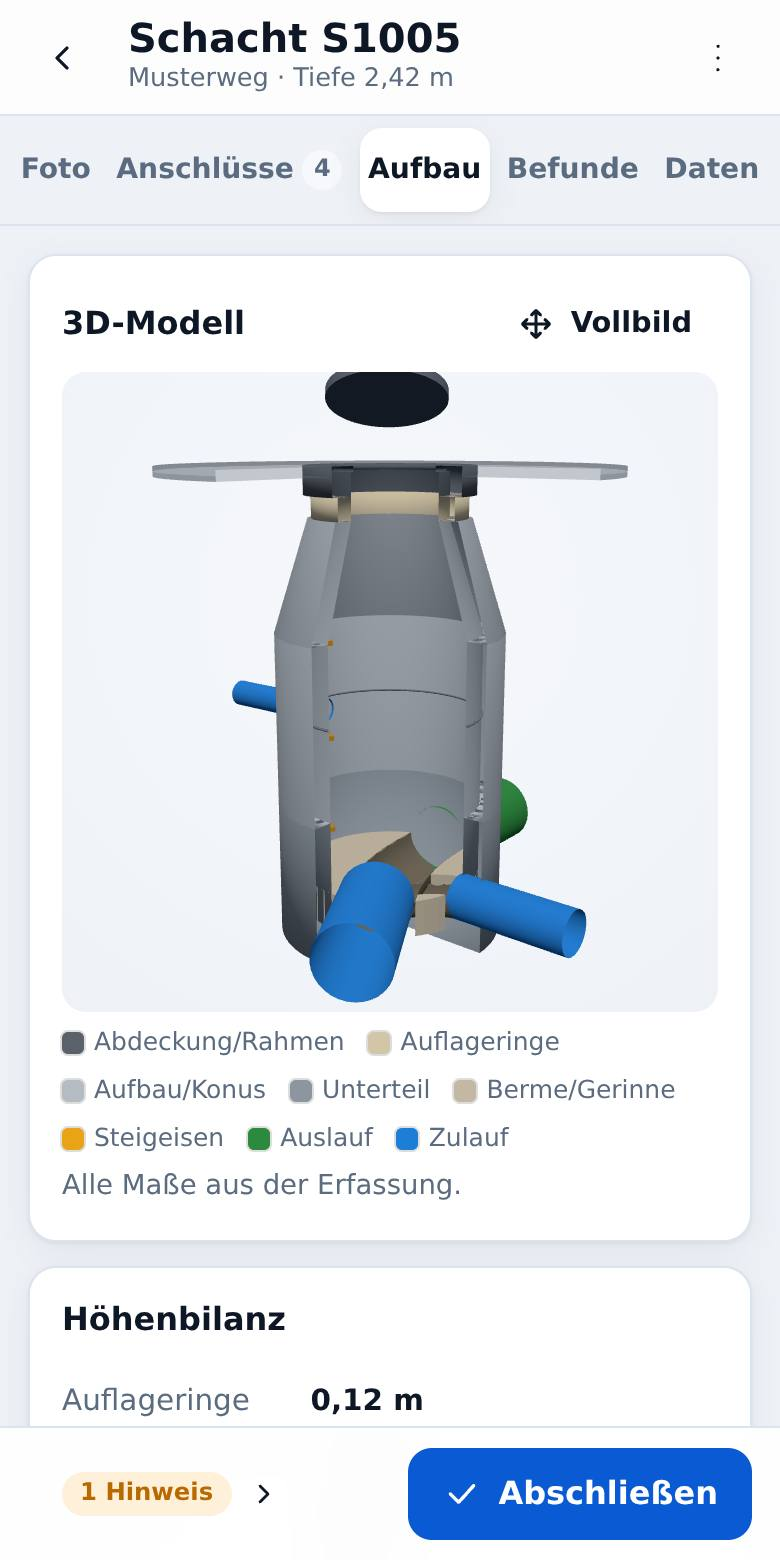
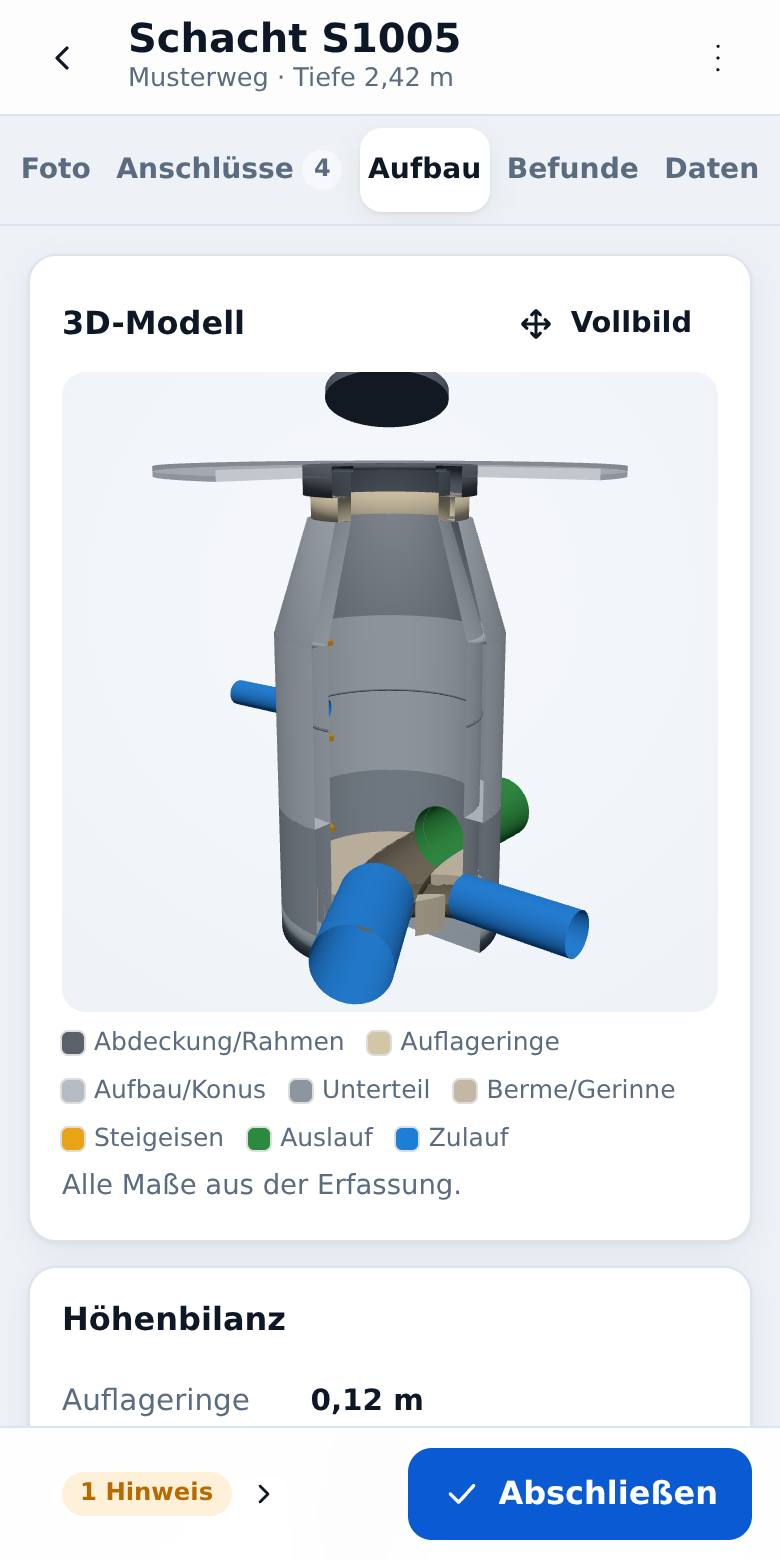
3D-Modell: Öffnungen in der Schachtwand an den Rohren
- Runde Wände (Unterteil, untere Schachtzone, Schachtringe) bekommen an jedem
  Anschluss eine Öffnung in Rohrgröße, innen und außen; das Rohr schließt bündig
  mit der Innenseite ab, verschlossene Anschlüsse zeigen den Deckel in der Öffnung
- Wandfläche als Raster, nur Zellen am Rohr werden exakt um die Öffnung zerlegt;
  Öffnungen an der Schnittkante (3/6 Uhr) oder an einer Bauteilfuge werden
  sauber angeschnitten
- Test für Mantelfläche, ausgesparte Fläche und Normalen; Bilder der Info-Seite
  neu erzeugt; Version 0.6.5

Claude-Session: https://claude.ai/code/session_01FwQYApyVF8ufwKu8TMpCht

Changed region(s): [[0.3385, 0.5231, 0.4615, 0.6462], [0.5231, 0.4923, 0.6154, 0.5846], [0.7077, 0.5846, 0.7692, 0.6154]]

diff --git a/app/js/components/modell3d.js b/app/js/components/modell3d.js
@@ -218,6 +218,85 @@ export function bermeUmrisse({ rInnen, kanaele, schritte = 120 }) {
   }
 }
 
+// ---------------------------------------------------------------- Wand mit Rohröffnungen
+
+/** Polygon an der Halbebene nx·x + ny·y ≤ c (bzw. ≥ c) abschneiden (Sutherland-Hodgman). */
+function halbebene(poly, nx, ny, c, aussen) {
+  const f = ([x, y]) => (aussen ? -1 : 1) * (nx * x + ny * y - c);
+  const out = [];
+  for (let i = 0; i < poly.length; i++) {
+    const p = poly[i], q = poly[(i + 1) % poly.length];
+    const fp = f(p), fq = f(q);
+    if (fp <= 0) out.push(p);
+    if ((fp < 0 && fq > 0) || (fp > 0 && fq < 0)) {
+      const t = fp / (fp - fq);
+      out.push([p[0] + (q[0] - p[0]) * t, p[1] + (q[1] - p[1]) * t]);
+    }
+  }
+  return out;
+}
+const polyFlaeche = (p) => Math.abs(p.reduce((a, [x, y], i) => { const [x2, y2] = p[(i + 1) % p.length]; return a + x * y2 - x2 * y; }, 0) / 2);
+
+/** Konvexes Polygon minus konvexes Loch = disjunkte konvexe Teile (je Lochkante: außerhalb dieser, innerhalb der vorigen). */
+function ohneLoch(poly, loch) {
+  const teile = [];
+  let rest = poly;
+  for (let k = 0; k < loch.length && rest.length >= 3; k++) {
+    const [ax, ay] = loch[k], [bx, by] = loch[(k + 1) % loch.length];
+    const nx = by - ay, ny = -(bx - ax); // nach außen (Loch gegen den Uhrzeigersinn)
+    const c = nx * ax + ny * ay;
+    const aussen = halbebene(rest, nx, ny, c, true);
+    if (aussen.length >= 3 && polyFlaeche(aussen) > 1e-10) teile.push(aussen);
+    rest = halbebene(rest, nx, ny, c, false);
+  }
+  return teile;
+}
+
+/**
+ * Zylindrische Wandfläche (Radius R, Winkel θ0…θ1 in Uhr-Richtung: x = R·sin θ, z = −R·cos θ, Höhe
+ * y0…y1) mit Öffnungen für radial einmündende Rohre ({theta, y (Mitte), r}). Die Fläche wird als
+ * Raster gebaut (Spalten ≤ 3°, sonst eben gerade); nur Zellen am Rohr werden exakt um die Öffnung
+ * herum zerlegt. Liefert {pos, nor} (Dreiecke, x/y/z flach) – ohne three.js, testbar.
+ */
+export function wandMitOeffnungen({ R, theta0, theta1, y0, y1, oeffnungen = [] }) {
+  const N = 32;
+  const loecher = oeffnungen.filter((o) => o.r > 0.005).map((o) => {
+    const r = Math.min(o.r, R * 0.95);
+    const poly = Array.from({ length: N }, (_, j) => {
+      const ph = (2 * Math.PI * j) / N;
+      return [R * (o.theta + Math.asin(Math.min(0.999, (r * Math.cos(ph)) / R))), o.y + r * Math.sin(ph)];
+    });
+    const xs = poly.map((p) => p[0]), ys = poly.map((p) => p[1]);
+    return { poly, s0: Math.min(...xs), s1: Math.max(...xs), y0: Math.min(...ys), y1: Math.max(...ys) };
+  });
+  const pos = [], nor = [];
+  const punkt = ([sv, y]) => {
+    const t = sv / R;
+    pos.push(R * Math.sin(t), y, -R * Math.cos(t));
+    nor.push(-Math.sin(t), 0, Math.cos(t)); // Vorderseite der Dreiecke zeigt zur Schachtmitte
+  };
+  const dreieck = (a, b, c) => { punkt(a); punkt(b); punkt(c); };
+  const spalten = Math.max(1, Math.ceil((theta1 - theta0) / (Math.PI / 60)));
+  const zeilenH = 0.04;
+  const zeilen = Math.max(1, Math.ceil((y1 - y0) / zeilenH));
+  for (let i = 0; i < spalten; i++) {
+    const sa = R * (theta0 + ((theta1 - theta0) * i) / spalten);
+    const sb = R * (theta0 + ((theta1 - theta0) * (i + 1)) / spalten);
+    const betroffen = loecher.filter((l) => l.s1 > sa && l.s0 < sb && l.y1 > y0 && l.y0 < y1);
+    if (!betroffen.length) { dreieck([sa, y0], [sb, y0], [sb, y1]); dreieck([sa, y0], [sb, y1], [sa, y1]); continue; }
+    for (let j = 0; j < zeilen; j++) {
+      const ya = y0 + ((y1 - y0) * j) / zeilen, yb = y0 + ((y1 - y0) * (j + 1)) / zeilen;
+      let teile = [[[sa, ya], [sb, ya], [sb, yb], [sa, yb]]];
+      for (const l of betroffen) {
+        if (l.y1 <= ya || l.y0 >= yb) continue;
+        teile = teile.flatMap((t) => ohneLoch(t, l.poly));
+      }
+      for (const t of teile) for (let k = 1; k < t.length - 1; k++) dreieck(t[0], t[k], t[k + 1]);
+    }
+  }
+  return { pos, nor };
+}
+
 /**
  * Nebengerinne für alle weiteren Zuläufe, deren Sohle nicht über der Berme liegt (sonst fällt das Wasser
  * auf die Berme): Breite nach DN (höchstens wie das Hauptgerinne), Sohle fällt vom Zulauf zur Mündung.
@@ -283,18 +362,43 @@ export function baueSchacht(THREE, { bauteile, inspection }) {
   };
   const ring = (ri, y0, y1, color, t = wand) => lathe([[ri, y0], [ri + t, y0], [ri + t, y1], [ri, y1], [ri, y0]], color);
 
+  // Öffnungen für die Rohre: Wand von 6 über 9 und 12 bis 3 Uhr (offenes Viertel 3–6 Uhr)
+  const THETA0 = Math.PI, THETA1 = Math.PI * 2.5;
+  const rohrRadius = (c) => Math.min(0.8, Math.max(0.1, (Number(c.dn) || 150) / 1000)) / 2;
+  const oeffnungen = (inspection?.connections || []).filter((c) => c.clock).map((c) => {
+    let theta = ((Number(c.clock) % 12) * Math.PI) / 6;
+    if (theta < THETA0 - 1e-9) theta += Math.PI * 2;
+    const r = rohrRadius(c);
+    return { theta, y: anschlussHoehe(c, T) + r, r };
+  });
+  // runde Wand (innen und außen mit Öffnungen) samt Ober- und Unterkante
+  const wandRund = (R, y0, y1, color) => {
+    for (const rad of [R, R + wand]) {
+      const { pos, nor } = wandMitOeffnungen({ R: rad, theta0: THETA0, theta1: THETA1, y0, y1, oeffnungen });
+      const geo = new THREE.BufferGeometry();
+      geo.setAttribute('position', new THREE.Float32BufferAttribute(pos, 3));
+      geo.setAttribute('normal', new THREE.Float32BufferAttribute(nor, 3));
+      g.add(new THREE.Mesh(geo, mat(color)));
+    }
+    lathe([[R, y1], [R + wand, y1]], color);
+    lathe([[R, y0], [R + wand, y0]], color);
+  };
+
   // Unterteil mit Bodenplatte
   const rU = M.unterteil.l / 2;
   if (M.unterteilDa) {
     if (M.unterteil.eckig) kasten(M.unterteil.l, M.unterteil.w, -0.15, M.hUnterteil, FARBEN.unterteil);
-    else lathe([[0, -0.15], [rU + wand, -0.15], [rU + wand, M.hUnterteil], [rU, M.hUnterteil], [rU, 0], [0, 0]], FARBEN.unterteil);
+    else {
+      lathe([[0, -0.15], [rU + wand, -0.15], [rU + wand, 0], [rU, 0], [0, 0]], FARBEN.unterteil);
+      wandRund(rU, 0, M.hUnterteil, FARBEN.unterteil);
+    }
   }
   // untere Schachtzone (Sonderschacht)
   let rOben = M.dn / 2;
   if (M.unten) {
     const rZ = M.unten.l / 2;
     if (M.unten.eckig) kasten(M.unten.l, M.unten.l, M.z.unten, M.z.aufbau, FARBEN.unten);
-    else ring(rZ, M.z.unten, M.z.aufbau, FARBEN.unten);
+    else wandRund(rZ, M.z.unten, M.z.aufbau, FARBEN.unten);
     if (M.unten.uebergangsplatte && rZ > rOben) lathe([[rOben, M.z.aufbau - 0.15], [rZ + wand, M.z.aufbau - 0.15], [rZ + wand, M.z.aufbau], [rOben, M.z.aufbau], [rOben, M.z.aufbau - 0.15]], FARBEN.konus);
     if (M.unten.podest) {
       const y = M.z.unten + (M.z.aufbau - M.z.unten) * 0.5;
@@ -306,7 +410,7 @@ export function baueSchacht(THREE, { bauteile, inspection }) {
   // Schachtaufbau: Ringe, Konus bzw. Abdeckplatte
   const rD = M.dDeckel / 2;
   if (M.aufbau.eckig) kasten(M.aufbau.l, M.aufbau.w, M.z.aufbau, M.z.konus, FARBEN.aufbau);
-  else ring(rOben, M.z.aufbau, M.z.konus, FARBEN.aufbau);
+  else wandRund(rOben, M.z.aufbau, M.z.konus, FARBEN.aufbau);
   // Ringfugen andeuten
   for (let y = M.z.aufbau + 0.5; y < M.z.konus - 0.1; y += 0.5) {
     if (M.aufbau.eckig) break;
@@ -402,7 +506,7 @@ export function baueSchacht(THREE, { bauteile, inspection }) {
     const len = 0.7;
     const color = c.dir === 'out' ? FARBEN.aus : c.dir === 'closed' ? FARBEN.zu_ : FARBEN.zu;
     const pipe = new THREE.Mesh(new THREE.CylinderGeometry(r, r, len, 32, 1, true), mat(color));
-    const start = wallAt(y) - 0.02;
+    const start = wallAt(y) - 0.004; // bündig mit der Innenseite (Öffnung in der Wand)
     pipe.position.copy(d.clone().multiplyScalar(start + len / 2)).setY(y);
     pipe.quaternion.setFromUnitVectors(new THREE.Vector3(0, 1, 0), d);
     g.add(pipe);

diff --git a/app/js/brand.js b/app/js/brand.js
@@ -1,7 +1,7 @@
 // Herstellerangaben der App (erscheinen in Einstellungen, Berichten und Exportdateien).
 
 export const APP_NAME = 'Schachtblick';
-export const APP_VERSION = '0.6.4';
+export const APP_VERSION = '0.6.5';
 export const VENDOR = 'MMSE Software Engineering';
 export const VENDOR_URL = 'https://www.mmse-software.com';
 export const VENDOR_WEB = 'www.mmse-software.com';

diff --git a/app/sw.js b/app/sw.js
@@ -1,5 +1,5 @@
 // Service Worker: macht die App offline-fähig (App-Dateien im Cache, API nie cachen).
-const VERSION = 'schachtblick-v17';
+const VERSION = 'schachtblick-v18';
 const ASSETS = [
   './', './index.html', './manifest.webmanifest', './css/app.css',
   './icons/icon.svg', './icons/icon-192.png', './icons/icon-512.png', './icons/icon-180.png', './icons/mmse-logo.png',

diff --git a/CLAUDE.md b/CLAUDE.md
@@ -50,7 +50,7 @@ node tools/make-bilder.mjs http://127.0.0.1:8080/ /tmp/s.jpg   # screenshots for
 - `sw.js` caches an explicit `ASSETS` list: add new JS/CSS files there.
 - `window.SB_DEMO` (set only by the published artifact preview page) switches export to "show XML" instead of download and hides print.
 - Reports: `lib/pdf.js` is a minimal PDF writer (A4, top-left coordinates, Helvetica/Helvetica-Bold with WinAnsi encoding – characters outside CP1252 are replaced, widths in `lib/pdf-fonts.js`; JPEG only via DCTDecode). `lib/xlsx.js` writes inline-string XLSX via `lib/zip.js`. `report/protokoll.js` (`protokollPdf`) and `report/aufmass.js` (`aufmassDaten/aufmassPdf/aufmassXlsx`) are DOM-free and unit-tested; `views/berichte.js` does the browser part (photo scaling, overview image with clock overlay, logo from `settings.logo` as JPEG data URL, download/share via `offerFile`).
-- `components/modell3d.js` lazy-loads the vendored three.js (`app/vendor/three/`, OrbitControls import rewritten to a relative path) and builds the cut-away manhole from `modellMasse()`; the channel (Gerinne) runs from the main inflow (lowest inflow, ties ±5 cm → largest DN; `gerinneAnschluesse()`) to the outflow along a cubic Bézier (`gerinneVerlauf()`, pure and unit-tested in `tests/gerinne.test.mjs`) – straight when they are opposite. Further inflows whose invert is not above the berm get side channels (`nebenGerinne()`: join the main channel tangentially in flow direction, end where the main channel wall is at their invert height so they never run uphill). The berm outline is the disk minus all channel bands, traced by marching squares on a distance field (`bermeUmrisse()`, then snapped to the wall circle and simplified with Douglas-Peucker) and extruded; `schachtModellBild()` renders a JPEG for the PDF. The inspection tab „Aufbau“ (`views/aufbau.js`) returns a cleanup that disposes the WebGL view.
+- `components/modell3d.js` lazy-loads the vendored three.js (`app/vendor/three/`, OrbitControls import rewritten to a relative path) and builds the cut-away manhole from `modellMasse()`; the channel (Gerinne) runs from the main inflow (lowest inflow, ties ±5 cm → largest DN; `gerinneAnschluesse()`) to the outflow along a cubic Bézier (`gerinneVerlauf()`, pure and unit-tested in `tests/gerinne.test.mjs`) – straight when they are opposite. Further inflows whose invert is not above the berm get side channels (`nebenGerinne()`: join the main channel tangentially in flow direction, end where the main channel wall is at their invert height so they never run uphill). The berm outline is the disk minus all channel bands, traced by marching squares on a distance field (`bermeUmrisse()`, then snapped to the wall circle and simplified with Douglas-Peucker) and extruded. Round walls (Unterteil, untere Schachtzone, Aufbau rings) get openings where pipes enter: `wandMitOeffnungen()` builds each cylinder surface as a grid (≤ 3° columns) and cuts only the cells at a pipe exactly around the pipe outline (convex decomposition by half-plane clipping), so openings straddling the cut-away edge (3/6 o'clock) or a joint between parts work too; pipes start flush with the inner wall. Konus and rectangular parts stay closed; `schachtModellBild()` renders a JPEG for the PDF. The inspection tab „Aufbau“ (`views/aufbau.js`) returns a cleanup that disposes the WebGL view.
 - Multi-tenant client: `sync.js` applies server company data (`applyFirma`) into settings (`firmaZentral`); `views/betrieb.js` (operator console, `#/betrieb`), `views/zugang.js` (`#/einladung/<token>`, `#/passwort/<token>`).
 - Plans: **Basis** = no account, data only on the device, XML export (ISYBAU/M150) locked; **Pro** = company account on the server. Gate exports only via `sync.xmlErlaubt()` (uses the cached `auth.lizenz`, works offline; `window.SB_DEMO` always allowed). PDF reports/Aufmaß stay free. `views/konto.js` holds the plan page (`#/pro`), self-registration (`#/registrieren`, confirm link `#/registrierung/<token>`), „Abo & Verträge“ for company admins (`#/konto`: accept AGB/AVV, book/change/cancel Pro) and the contract pages (`#/agb`, `#/avv`). Contract texts (drafts) live in `data/vertraege.js`; their versions must equal `SB_VERTRAG` in `app/api/lib/konto.php` (unit-tested) – bump both for content changes so admins re-accept. `report/vertrag.js` renders a contract as PDF with the acceptance record. Prices shown come from the server (`ping` → `plattform`), `brand.js` `PLATTFORM_STANDARD` is only the offline fallback; the donation link is `SPENDEN_URL`.
 - Public face: `app/schachtinspektion.html` is a static, crawlable info page (own inline CSS, no JS); `index.html` and it carry Open Graph/Twitter tags for link previews (WhatsApp) and SoftwareApplication JSON-LD; `robots.txt`/`sitemap.xml` sit in `app/`. The public URL `https://schachtblick.mmse-software.com/` is hard-coded there and in `brand.js` `APP_URL` (`tests/seo.test.mjs` checks they agree and that referenced files exist). `tools/make-bilder.mjs` regenerates `app/bilder/*.jpg` and `app/og-bild.jpg` from the demo project (needs the app running). Prices on the info page are static text – update them when the platform prices change.
